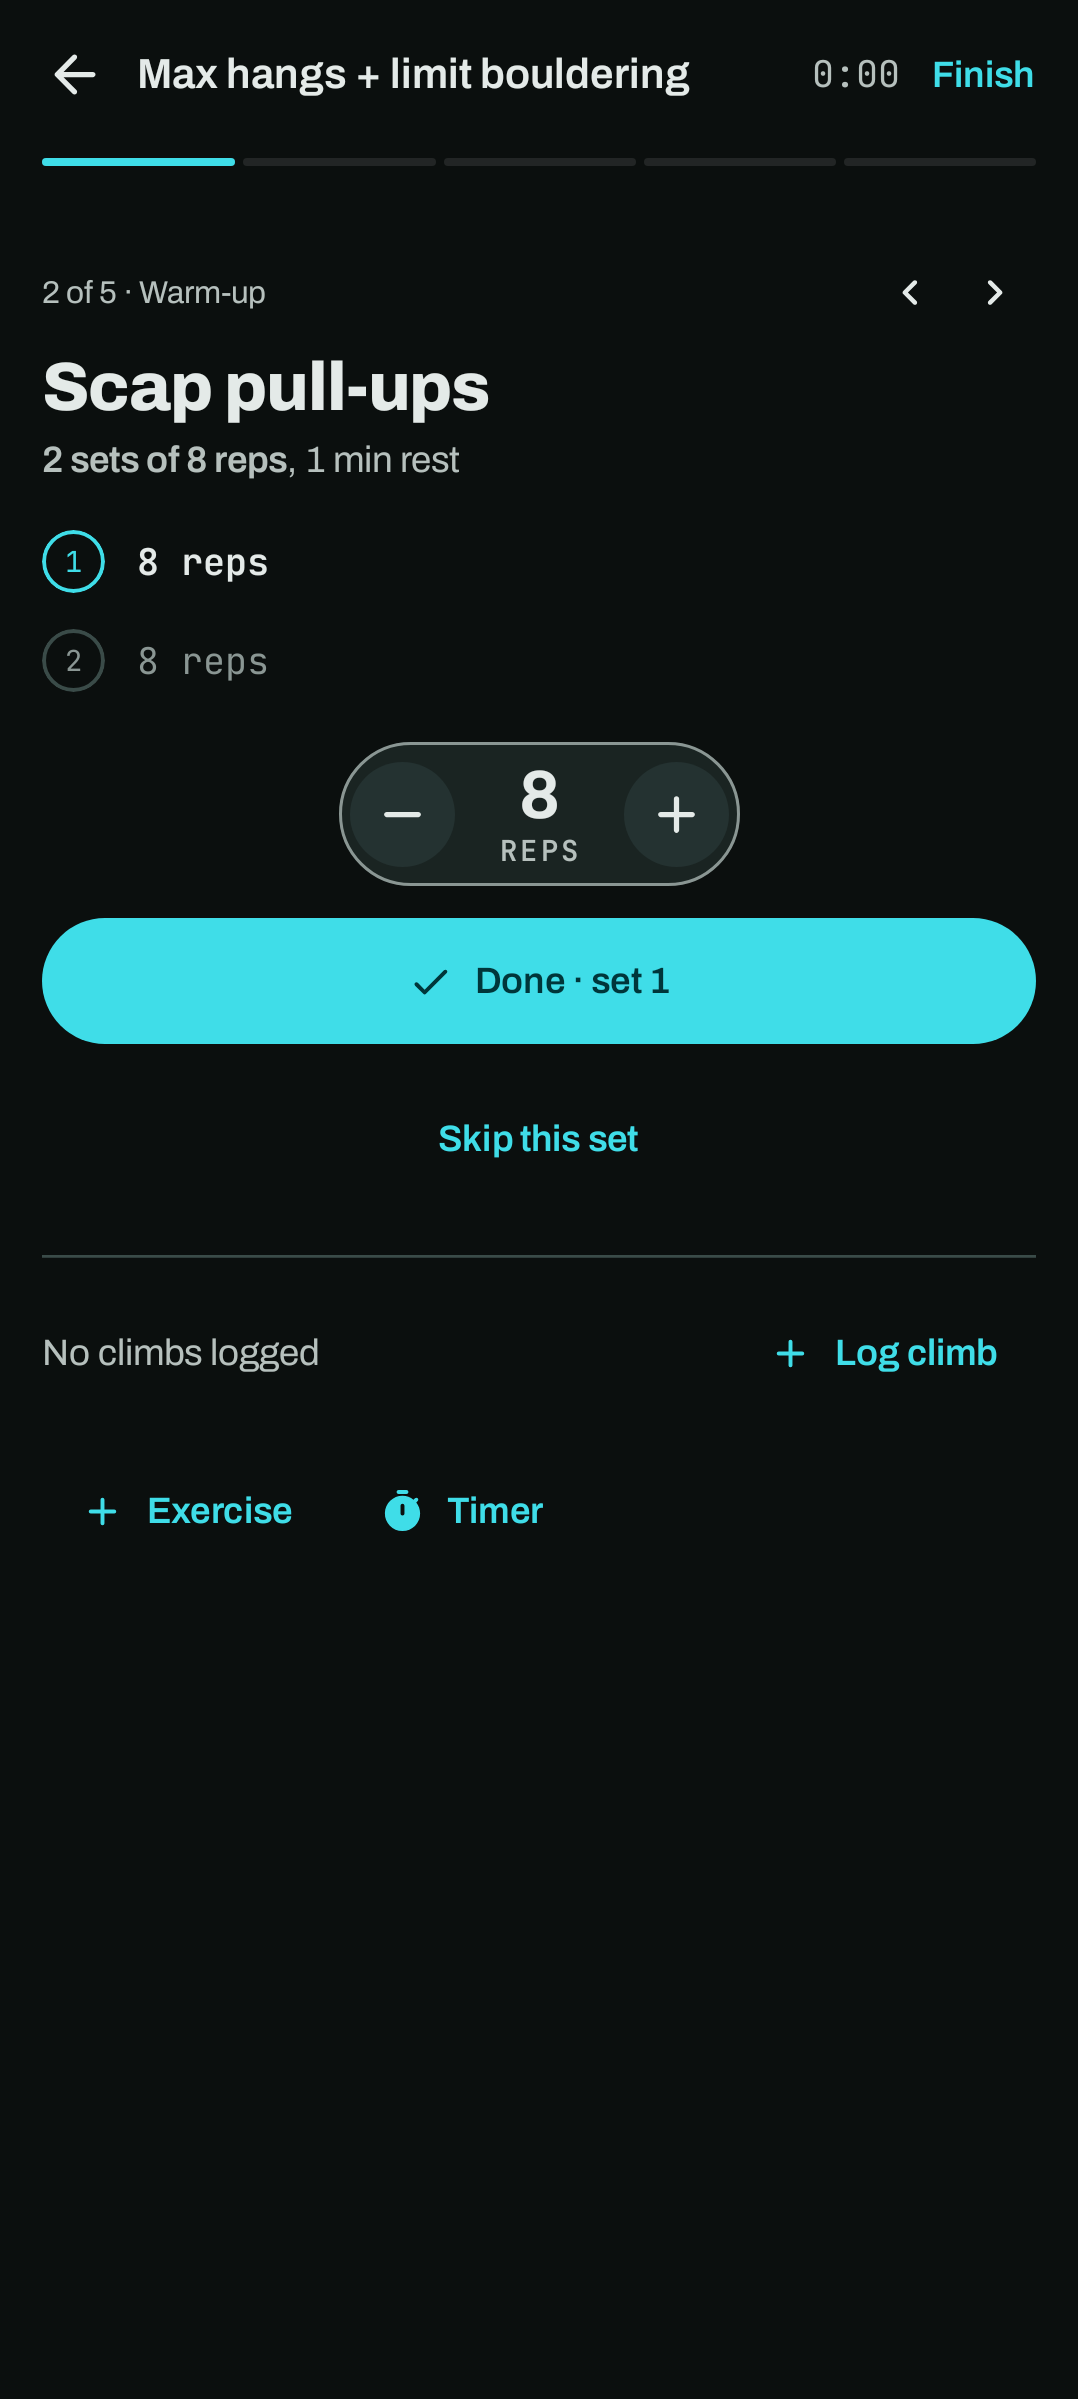
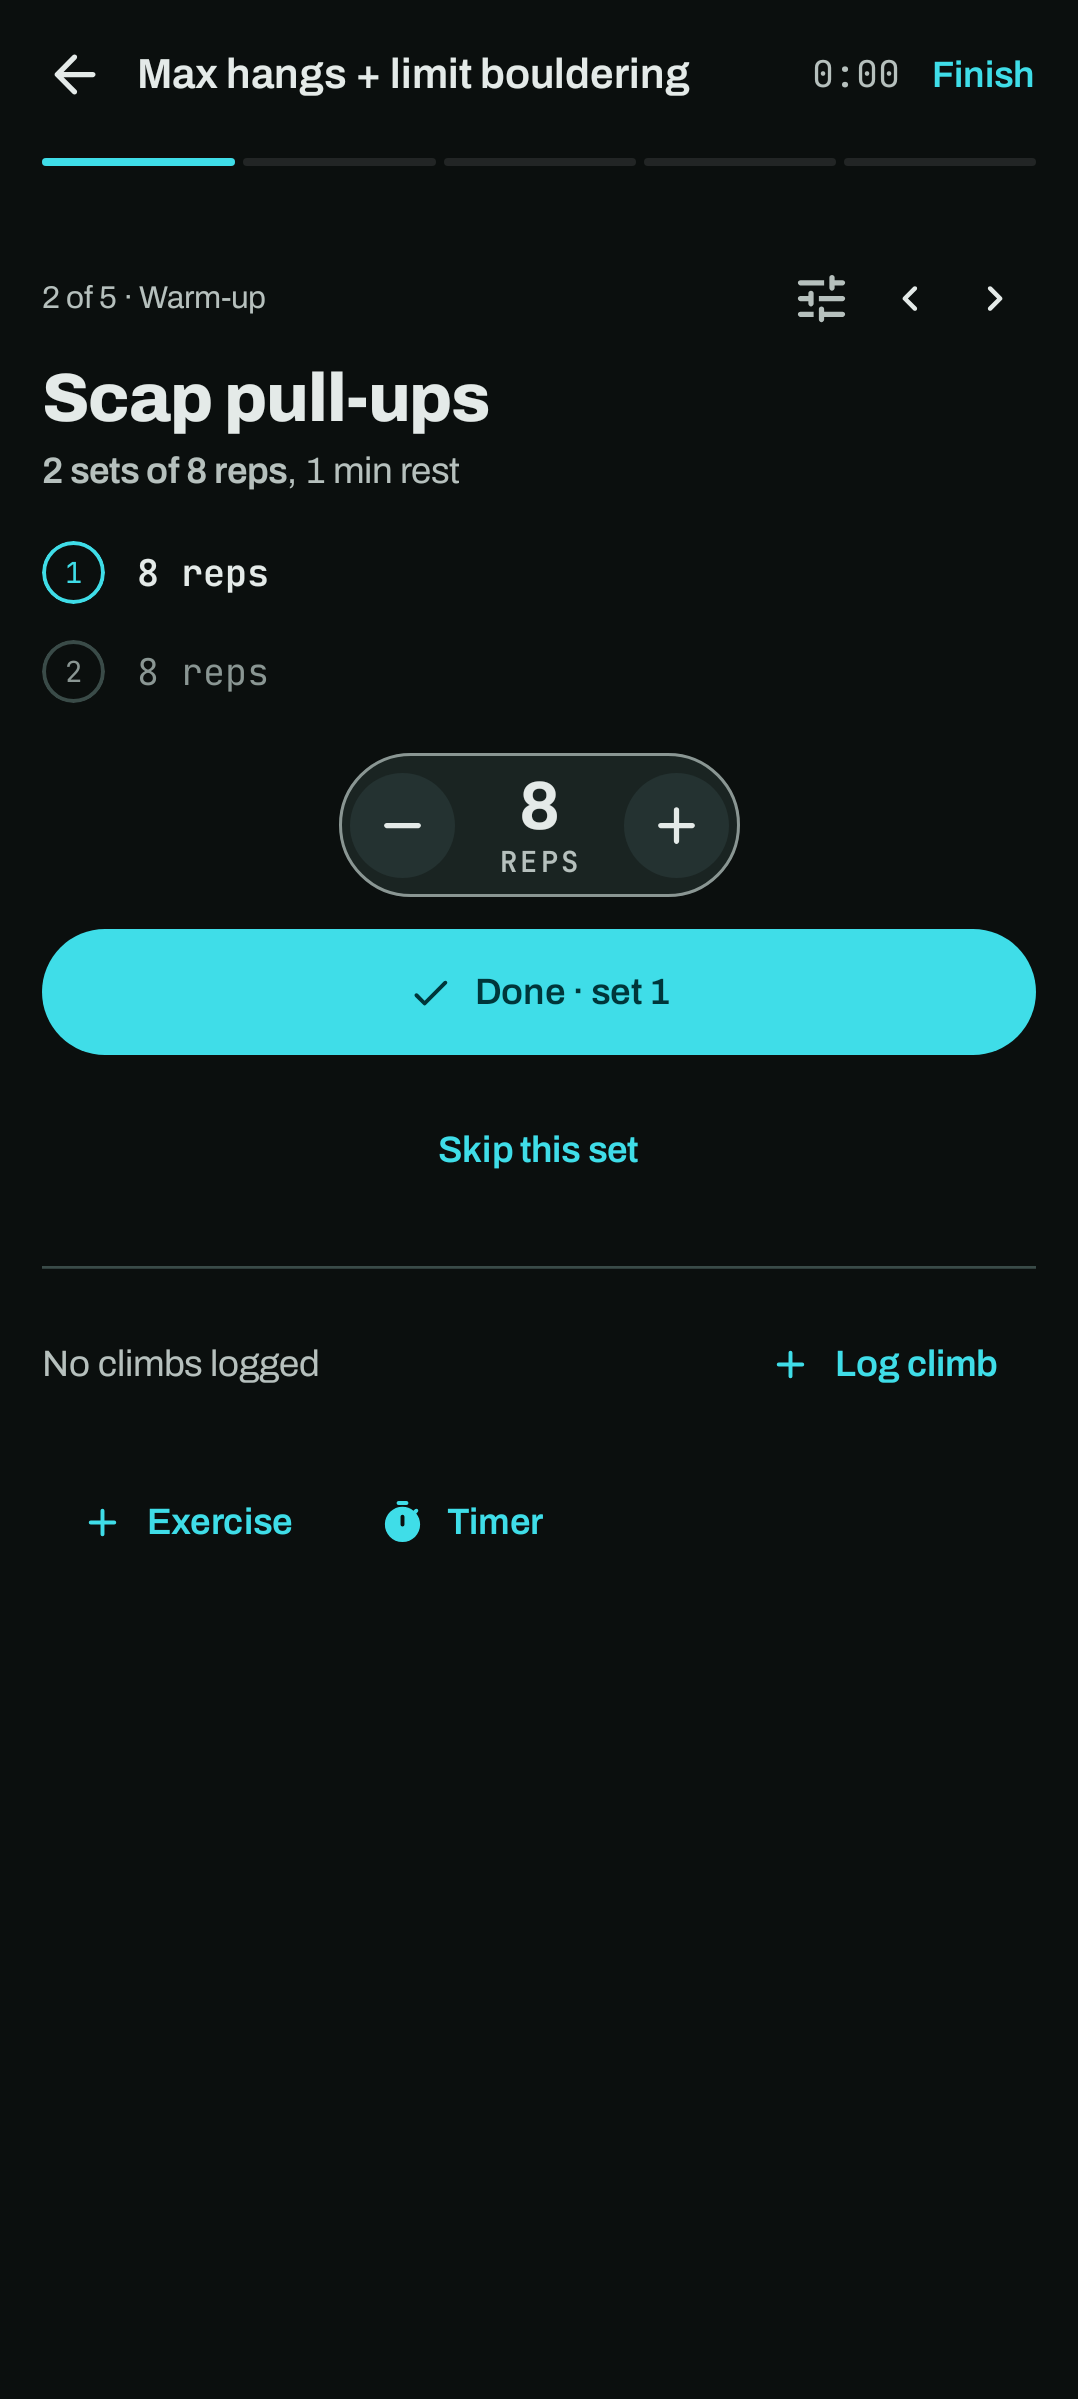
Change an exercise's targets during a session

diff --git a/app/src/main/java/com/hardtekpt/crux/ui/session/SessionScreen.kt b/app/src/main/java/com/hardtekpt/crux/ui/session/SessionScreen.kt
@@ -36,6 +36,7 @@ import androidx.compose.material.icons.rounded.Check
 import androidx.compose.material.icons.rounded.PlayArrow
 import androidx.compose.material.icons.rounded.Star
 import androidx.compose.material.icons.rounded.Timer
+import androidx.compose.material.icons.rounded.Tune
 import androidx.compose.material3.AlertDialog
 import androidx.compose.material3.ExperimentalMaterial3Api
 import androidx.compose.material3.HorizontalDivider
@@ -85,6 +86,7 @@ import com.hardtekpt.crux.data.SessionRepository
 import com.hardtekpt.crux.data.model.Climb
 import com.hardtekpt.crux.data.model.Exercise
 import com.hardtekpt.crux.data.model.ExerciseCategory
+import com.hardtekpt.crux.data.model.ExerciseTarget
 import com.hardtekpt.crux.data.model.Place
 import com.hardtekpt.crux.data.model.formatDuration
 import com.hardtekpt.crux.data.model.formatLoad
@@ -248,6 +250,19 @@ class SessionViewModel @Inject constructor(
     }
 
     fun updateDraft(change: (SetDraft) -> SetDraft) = _draft.update(change)
+
+    /** Changes what an exercise asks for in this session; the next set's draft follows it. */
+    fun updateTarget(item: SessionItem, target: ExerciseTarget) {
+        if (target == item.target) return
+        viewModelScope.launch { sessions.updateTarget(item.id, target) }
+        _draft.update { draft ->
+            if (draft.itemId != item.id || item.sets.any { !it.skipped }) {
+                draft
+            } else {
+                draft.copy(reps = target.reps, seconds = target.seconds, loadKg = target.loadKg)
+            }
+        }
+    }
 
     /** Logs the set as drafted, then starts the rest; after the last set, moves to the next exercise. */
     fun doneSet(item: SessionItem) {
@@ -446,6 +461,7 @@ fun SessionScreen(
     var finishing by rememberSaveable { mutableStateOf(false) }
     var picking by rememberSaveable { mutableStateOf(false) }
     var settingUpTimer by rememberSaveable { mutableStateOf(false) }
+    var editingTarget by rememberSaveable { mutableStateOf<Long?>(null) }
     var freeTimer by rememberSaveable { mutableStateOf(false) }
     var editing by remember { mutableStateOf<Pair<Long, Int>?>(null) }
     val context = LocalContext.current
@@ -586,6 +602,7 @@ fun SessionScreen(
                     onSkip = { viewModel.skipSet(item) },
                     onEdit = { setIndex -> editing = item.id to setIndex },
                     onStartTimer = { settingUpTimer = true },
+                    onEditTarget = { editingTarget = item.id },
                     onPrevious = current.items.getOrNull(index - 1)?.let { prev -> { viewModel.show(prev.id) } },
                     onNext = current.items.getOrNull(index + 1)?.let { next -> { viewModel.show(next.id) } },
                 )
@@ -691,6 +708,20 @@ fun SessionScreen(
             onDismiss = { picking = false },
         )
     }
+    // Changing an exercise for this session only: the plan stays as it is.
+    current?.items?.firstOrNull { it.id == editingTarget }?.let { edited ->
+        var target by remember(edited.id) { mutableStateOf(edited.target) }
+        com.hardtekpt.crux.ui.train.TargetSheet(
+            exercise = edited.exercise,
+            target = target,
+            onChange = { target = it.copy(sets = it.sets.coerceAtLeast(maxOf(1, edited.logged))) },
+            onDismiss = {
+                viewModel.updateTarget(edited, target)
+                editingTarget = null
+            },
+            note = "For this session only. Your plan stays as it is.",
+        )
+    }
     if (settingUpTimer && item != null) {
         TimerSetupSheet(
             initial = viewModel.timerFor(item),
@@ -776,6 +807,7 @@ private fun ExerciseView(
     onSkip: () -> Unit,
     onEdit: (Int) -> Unit,
     onStartTimer: () -> Unit,
+    onEditTarget: () -> Unit,
     onPrevious: (() -> Unit)?,
     onNext: (() -> Unit)?,
 ) {
@@ -787,6 +819,10 @@ private fun ExerciseView(
         Column(verticalArrangement = Arrangement.spacedBy(6.dp)) {
             Row(verticalAlignment = Alignment.CenterVertically) {
                 Text(step, style = MaterialTheme.typography.bodySmall, color = colors.onSurfaceVariant, modifier = Modifier.weight(1f))
+                // Sets, reps, time, load and rest for this session.
+                IconButton(onClick = onEditTarget, modifier = Modifier.size(36.dp).testTag("session_edit_target")) {
+                    Icon(Icons.Rounded.Tune, contentDescription = "Change this exercise for this session", tint = colors.onSurfaceVariant)
+                }
                 if (onPrevious != null || onNext != null) {
                     SmallArrow(Icons.AutoMirrored.Rounded.KeyboardArrowLeft, "Previous exercise", onPrevious)
                     SmallArrow(Icons.AutoMirrored.Rounded.KeyboardArrowRight, "Next exercise", onNext, Modifier.testTag("session_next"))

diff --git a/app/src/main/java/com/hardtekpt/crux/data/SessionRepository.kt b/app/src/main/java/com/hardtekpt/crux/data/SessionRepository.kt
@@ -82,6 +82,9 @@ interface SessionRepository {
     suspend fun skipSet(itemId: Long, setIndex: Int)
     suspend fun undoSet(itemId: Long, setIndex: Int)
 
+    /** Changes an exercise's target for this session only; at least as many sets as are already logged. */
+    suspend fun updateTarget(itemId: Long, target: ExerciseTarget)
+
     /** Adds an exercise during the session, with its usual target. */
     suspend fun addExercise(sessionId: Long, exercise: Exercise): Long
     suspend fun setPlace(sessionId: Long, placeId: Long?, sectionId: Long?)
@@ -192,6 +195,20 @@ class OfflineSessionRepository @Inject constructor(private val dbs: CruxDatabase
     }
 
     override suspend fun undoSet(itemId: Long, setIndex: Int) = dbs.current().sessionDao().deleteSet(itemId, setIndex)
+
+    override suspend fun updateTarget(itemId: Long, target: ExerciseTarget) {
+        val dao = dbs.current().sessionDao()
+        val logged = dao.getAllSets().count { it.itemId == itemId }
+        dao.updateTarget(
+            itemId = itemId,
+            sets = target.sets.coerceAtLeast(maxOf(1, logged)),
+            reps = target.reps,
+            seconds = target.seconds,
+            loadKg = target.loadKg,
+            restSeconds = target.restSeconds,
+            repRestSeconds = target.repRestSeconds,
+        )
+    }
 
     override suspend fun addExercise(sessionId: Long, exercise: Exercise): Long {
         val dao = dbs.current().sessionDao()

diff --git a/app/src/main/java/com/hardtekpt/crux/ui/train/PlanEditorScreen.kt b/app/src/main/java/com/hardtekpt/crux/ui/train/PlanEditorScreen.kt
@@ -301,9 +301,9 @@ private fun ExercisePickerSheet(library: List<Exercise>, onPick: (Exercise) -> U
     }
 }
 
-/** Targets for one exercise; only the fields its metric uses are shown. */
+/** Targets for one exercise; only the fields its metric uses are shown. [note] says where the change applies. */
 @Composable
-private fun TargetSheet(exercise: Exercise, target: ExerciseTarget, onChange: (ExerciseTarget) -> Unit, onDismiss: () -> Unit) {
+internal fun TargetSheet(exercise: Exercise, target: ExerciseTarget, onChange: (ExerciseTarget) -> Unit, onDismiss: () -> Unit, note: String? = null) {
     val metric = exercise.metric
     ModalBottomSheet(
         onDismissRequest = onDismiss,
@@ -326,6 +326,7 @@ private fun TargetSheet(exercise: Exercise, target: ExerciseTarget, onChange: (E
                 style = CruxTheme.type.code,
                 color = MaterialTheme.colorScheme.onSurfaceVariant,
             )
+            note?.let { Text(it, style = MaterialTheme.typography.bodySmall, color = MaterialTheme.colorScheme.onSurfaceVariant) }
             if (metric.usesIntervals) {
                 IntervalTargets(target, metric.usesLoad, onChange)
             } else {

diff --git a/app/src/androidTest/java/com/hardtekpt/crux/MainActivityTest.kt b/app/src/androidTest/java/com/hardtekpt/crux/MainActivityTest.kt
@@ -259,6 +259,12 @@ class MainActivityTest {
         composeRule.waitUntil(5_000) { composeRule.onAllNodesWithTag("set_edit").fetchSemanticsNodes().isEmpty() }
         composeRule.onNodeWithTag("session_set_0").assertTextContains("5 × 7 s", substring = true)
 
+        // Its targets change for this session: the tune button opens them; Done keeps them.
+        composeRule.onNodeWithTag("session_edit_target").performScrollTo().performClick()
+        composeRule.waitForTag("target_sheet")
+        composeRule.onNodeWithTag("target_done").performScrollTo().performClick()
+        composeRule.waitUntil(5_000) { composeRule.onAllNodesWithTag("target_sheet").fetchSemanticsNodes().isEmpty() }
+
         // A timer of its own opens the band at the top; paused, it can be stopped.
         composeRule.onNodeWithTag("session_timer").performScrollTo().performClick()
         composeRule.waitForTag("timer_start")

diff --git a/app/src/test/java/com/hardtekpt/crux/data/Fakes.kt b/app/src/test/java/com/hardtekpt/crux/data/Fakes.kt
@@ -267,6 +267,10 @@ class FakeSessionRepository(var runningSession: RunningSession? = null) : Sessio
     override suspend fun skipSet(itemId: Long, setIndex: Int) = Unit
     override suspend fun undoSet(itemId: Long, setIndex: Int) = Unit
     override suspend fun addExercise(sessionId: Long, exercise: com.hardtekpt.crux.data.model.Exercise): Long = 1
+    val targets = mutableListOf<Pair<Long, com.hardtekpt.crux.data.model.ExerciseTarget>>()
+    override suspend fun updateTarget(itemId: Long, target: com.hardtekpt.crux.data.model.ExerciseTarget) {
+        targets += itemId to target
+    }
     override suspend fun setPlace(sessionId: Long, placeId: Long?, sectionId: Long?) = Unit
     override suspend fun finish(sessionId: Long, effort: Int?, notes: String?) = Unit
     override suspend fun edit(sessionId: Long, startedAtMillis: Long, endedAtMillis: Long, effort: Int?, notes: String?) = Unit

diff --git a/app/src/main/java/com/hardtekpt/crux/data/local/Session.kt b/app/src/main/java/com/hardtekpt/crux/data/local/Session.kt
@@ -140,6 +140,13 @@ interface SessionDao {
     @Query("DELETE FROM session_sets WHERE itemId = :itemId AND setIndex = :setIndex")
     suspend fun deleteSet(itemId: Long, setIndex: Int)
 
+    /** Changes what an exercise in a session asks for; the plan it came from stays as it is. */
+    @Query(
+        "UPDATE session_items SET sets = :sets, reps = :reps, seconds = :seconds, loadKg = :loadKg, " +
+            "restSeconds = :restSeconds, repRestSeconds = :repRestSeconds WHERE id = :itemId",
+    )
+    suspend fun updateTarget(itemId: Long, sets: Int, reps: Int, seconds: Int, loadKg: Double, restSeconds: Int, repRestSeconds: Int)
+
     @Query("SELECT s.* FROM session_sets s JOIN session_items i ON i.id = s.itemId WHERE i.sessionId = :sessionId ORDER BY s.itemId, s.setIndex")
     fun observeSets(sessionId: Long): Flow<List<SessionSetEntity>>
 
